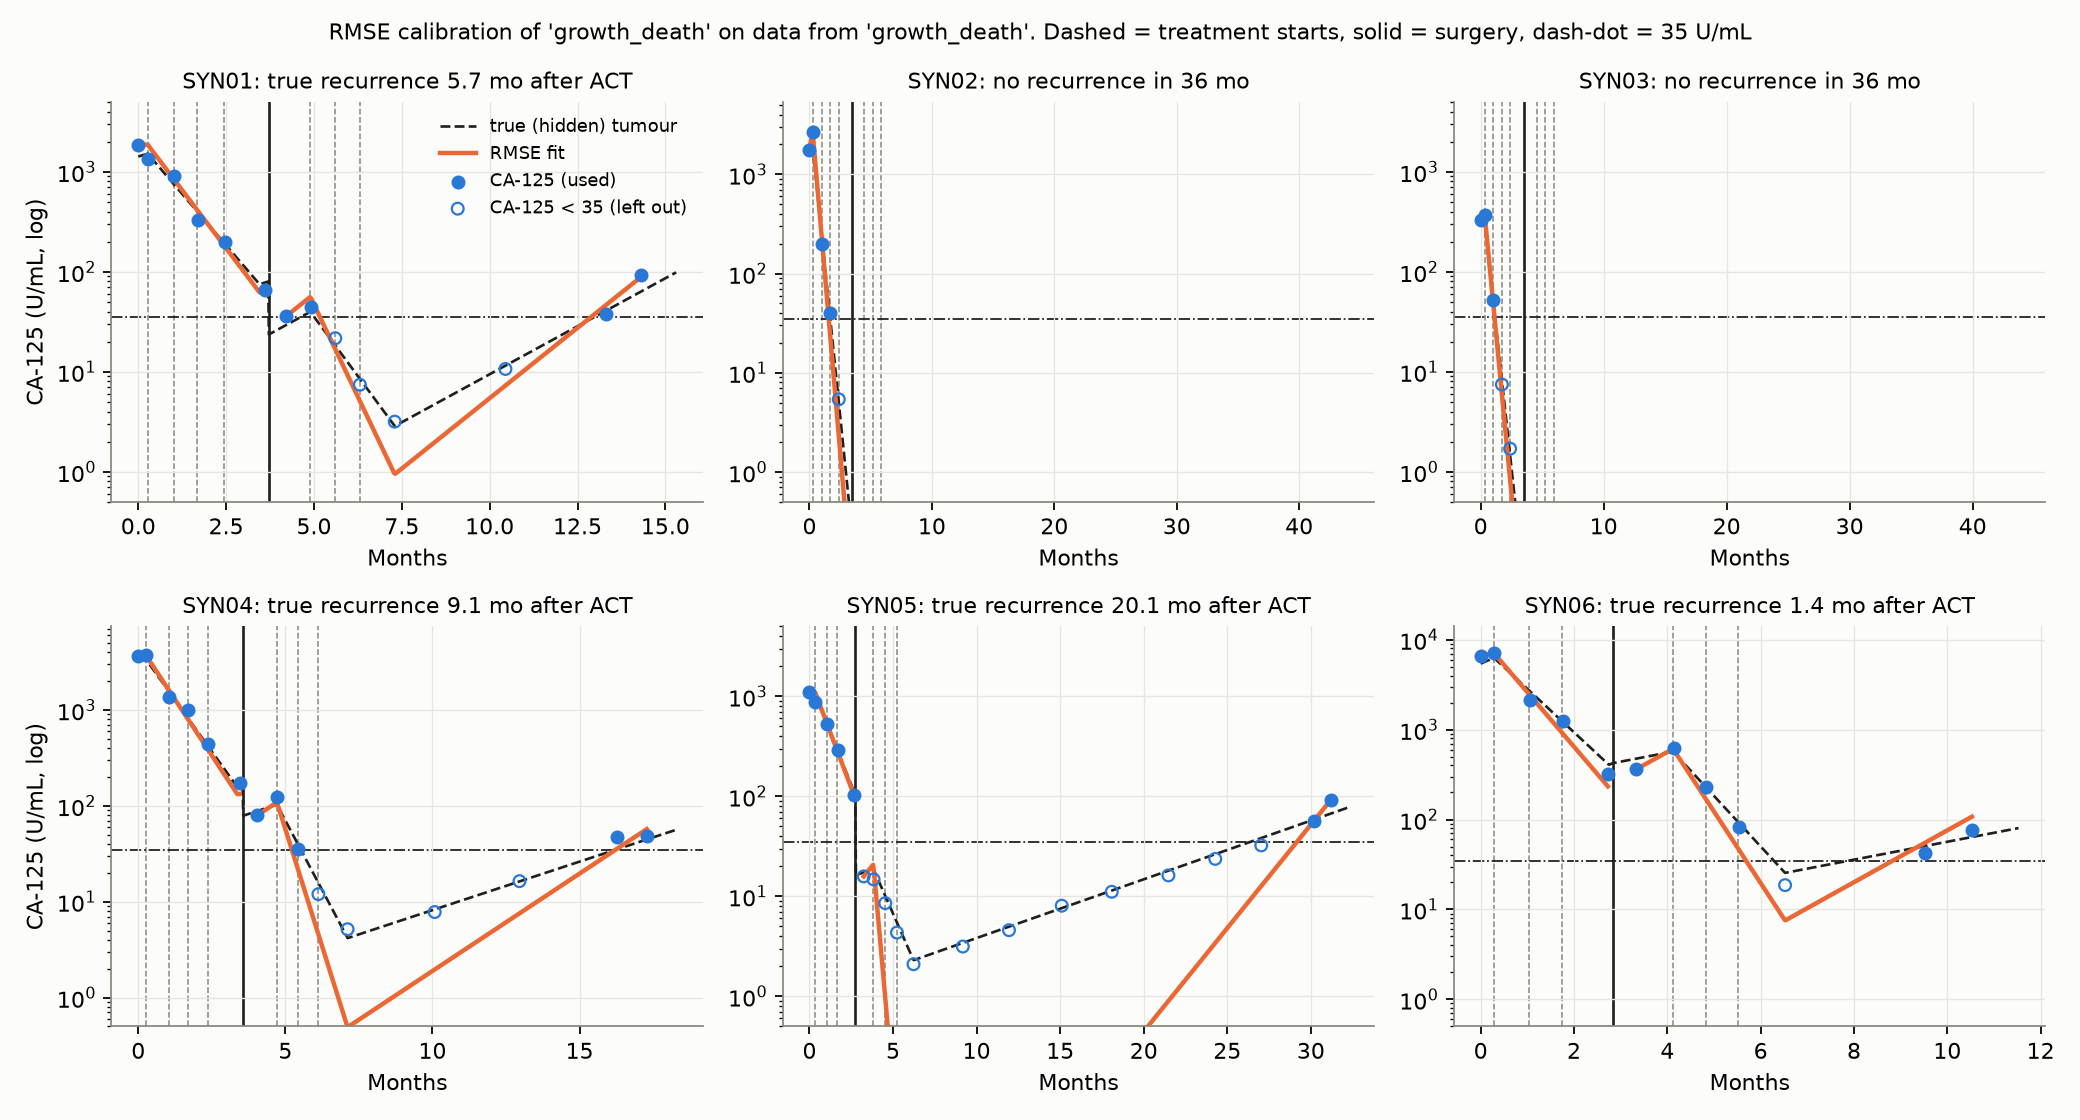
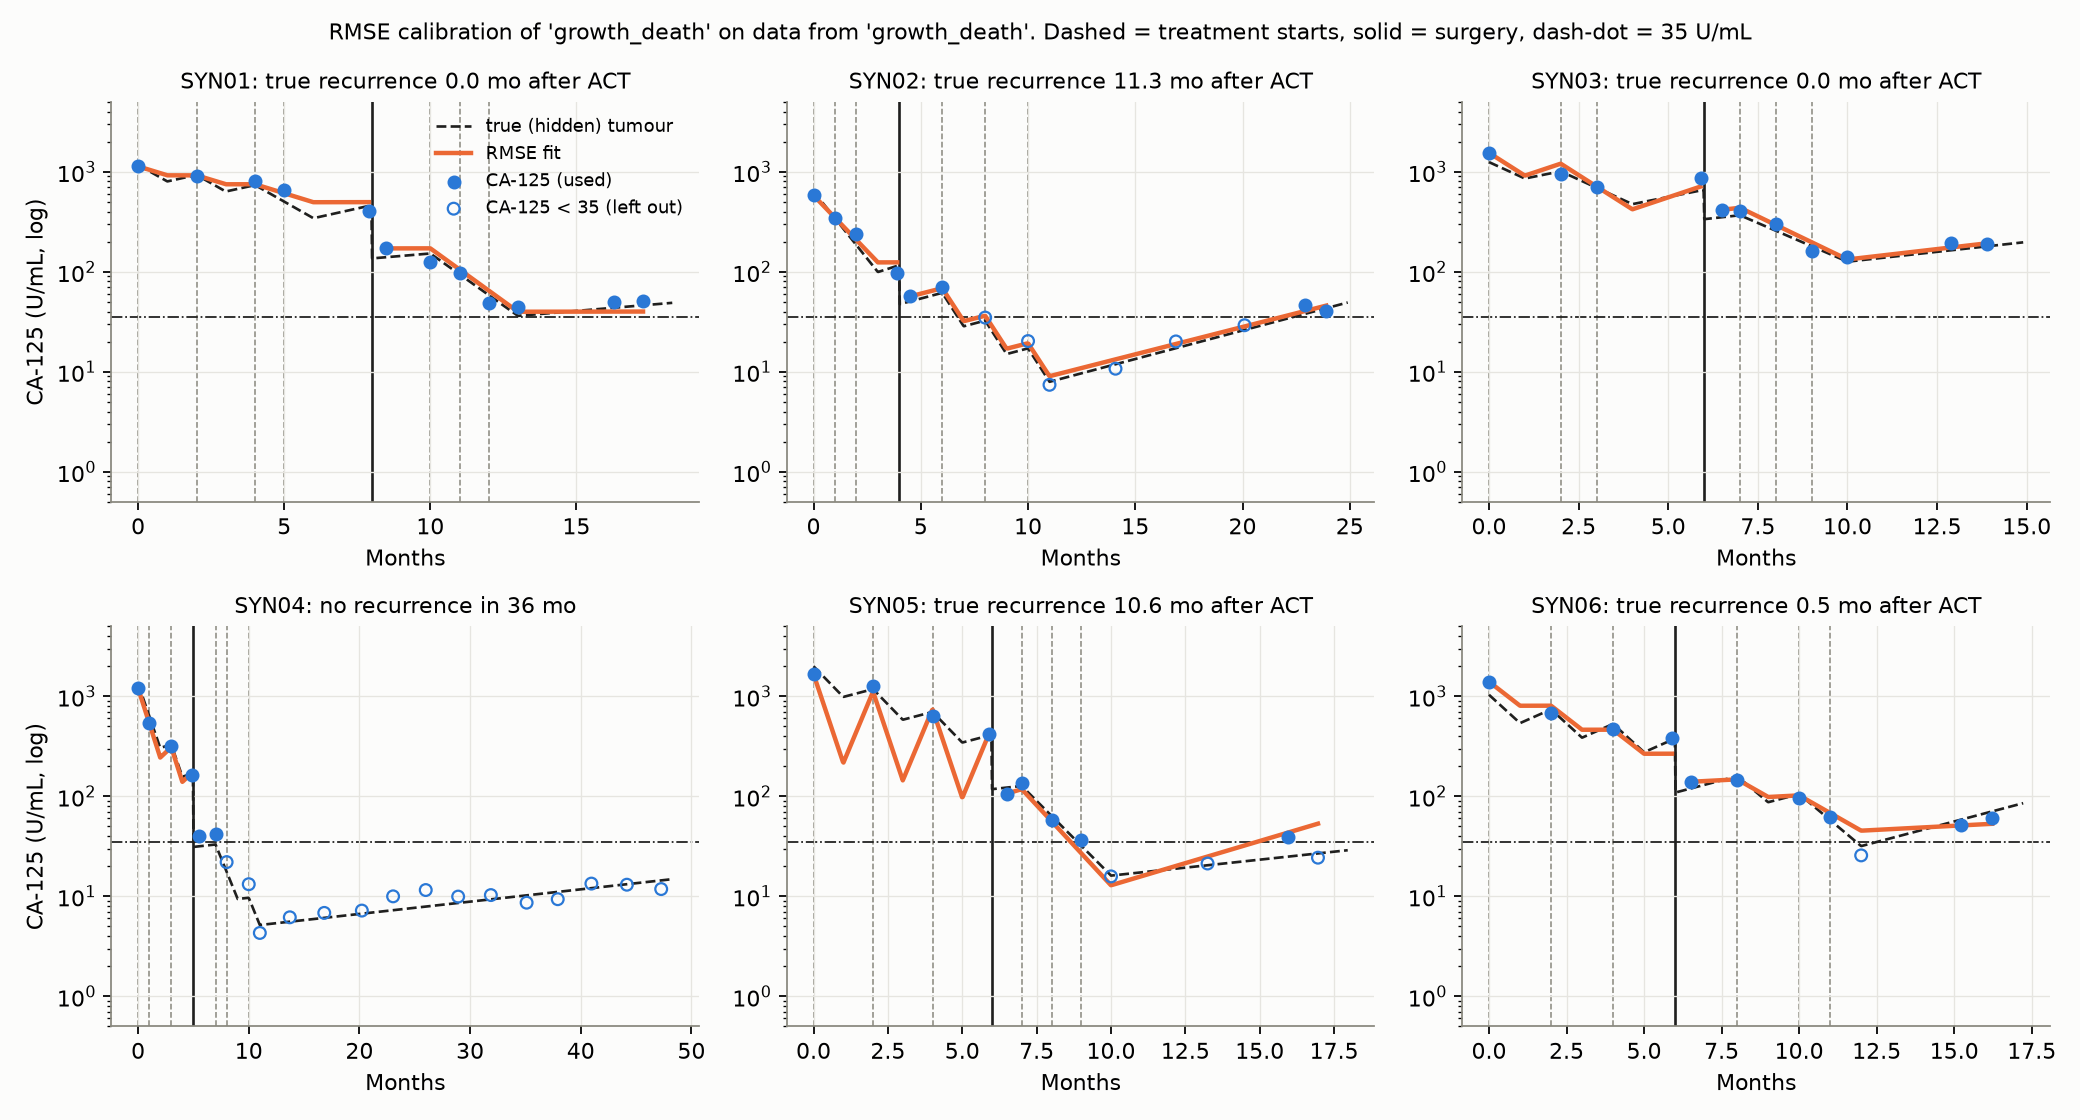
Integer treatment schedule, surgery-jump and nadir gates, treatment file
- Schedule on whole months: each NACT/ACT cycle is on for 1 month, then a 0-1 month gap;
  surgery 1-2 months after the last NACT cycle; first ACT 1-2 months after surgery.
- Gates in sample_parameters: surgery must be a clear jump (after/before CA-125 in
  [0.05, 0.8]) and true CA-125 must stay >= 5 U/mL until the end of ACT; failing draws
  are redrawn.
- Population medians retuned for the new schedule (engineering/tune_population.py, local).
- Generator writes data/synthetic_treatments.csv (cycles and surgery per patient).
- Schedule settings moved to config; tests check both gates.

diff --git a/ovca/generator.py b/ovca/generator.py
@@ -8,8 +8,9 @@ Two steps, usable on their own:
      with assay noise, surveillance and recurrence detection, plus the true recurrence time.
 
 generate_cohort() repeats both for N patients.  Run:  .venv/bin/python -m ovca.generator
-Outputs (data/): synthetic_ca125.csv (what a clinician would see) and synthetic_truth.csv
-(true parameters and recurrence times, for checking only).
+Outputs (data/): synthetic_ca125.csv and synthetic_treatments.csv (what a clinician would see:
+readings, and treatment cycles and surgery) and synthetic_truth.csv (true parameters and
+recurrence times, for checking only).
 """
 from pathlib import Path
 
@@ -23,17 +24,62 @@ from .patient import PatientParameters, Schedule
 DATA = Path(__file__).resolve().parents[1] / "data"
 
 
+def _gap(rng, rng_months):
+    """Whole number of months, uniform on [low, high]."""
+    return float(rng.integers(rng_months[0], rng_months[1] + 1))
+
+
 def sample_schedule(rng):
-    """3-4 NACT cycles ~3 weeks apart -> surgery -> 3 ACT cycles (months)."""
-    n_nact = int(rng.choice([3, 4]))
-    nact = 0.3 + 0.7 * np.arange(n_nact) + rng.uniform(-0.05, 0.05, n_nact)
-    t_surg = nact[-1] + 0.8 + rng.uniform(0.0, 0.5)
-    act = t_surg + 1.0 + rng.uniform(0, 0.3) + 0.7 * np.arange(3)
+    """NACT cycles -> surgery -> ACT cycles, all on whole months (first NACT at month 0).
+
+    Each cycle is on for TREATMENT_DURATION, then a 0-1 month gap (GAP_MONTHS) before the next.
+    Surgery comes SURGERY_GAP months after the last NACT cycle ends; the first ACT cycle starts
+    ACT_START_GAP months after surgery.
+    """
+    d = C.TREATMENT_DURATION
+    nact = [0.0]
+    for _ in range(int(rng.choice(C.N_NACT_CHOICES)) - 1):
+        nact.append(nact[-1] + d + _gap(rng, C.GAP_MONTHS))
+    t_surg = nact[-1] + d + _gap(rng, C.SURGERY_GAP)
+    act = [t_surg + _gap(rng, C.ACT_START_GAP)]
+    for _ in range(C.N_ACT - 1):
+        act.append(act[-1] + d + _gap(rng, C.GAP_MONTHS))
     return Schedule(nact, t_surg, act)
 
 
-def sample_parameters(rng, model: BaseModel, patient_id, population=None):
-    """Draw one patient's parameter set from the population (log-normal around the median)."""
+def nadir(model: BaseModel, p: PatientParameters, step=0.05):
+    """Lowest true CA-125 from t = 0 to the end of ACT."""
+    return float(model.simulate_patient(np.arange(0.0, p.schedule.t_end + step / 2, step), p).min())
+
+
+def surgery_jump(model: BaseModel, p: PatientParameters):
+    """CA-125 just after surgery divided by CA-125 just before (the size of the jump)."""
+    ts = p.schedule.t_surgery
+    before, after = model.simulate_patient([ts - 1e-9, ts], p)
+    return float(after / before)
+
+
+def sample_parameters(rng, model: BaseModel, patient_id, population=None,
+                      nadir_min=C.NADIR_MIN, jump_range=C.SURGERY_JUMP_RANGE):
+    """Draw one patient's parameter set from the population (log-normal around the median).
+
+    Two gates; a draw that fails either is redrawn:
+      - surgery must give a clear jump: after/before CA-125 within jump_range;
+      - true CA-125 must not fall below nadir_min before the end of ACT.
+    Pass None to switch a gate off.
+    """
+    for _ in range(C.MAX_REDRAWS):
+        p = _draw_parameters(rng, model, patient_id, population)
+        if jump_range is not None and not (jump_range[0] <= surgery_jump(model, p)
+                                           <= jump_range[1]):
+            continue
+        if nadir_min is not None and nadir(model, p) < nadir_min:
+            continue
+        return p
+    raise RuntimeError(f"no draw passed the gates in {C.MAX_REDRAWS} tries")
+
+
+def _draw_parameters(rng, model, patient_id, population):
     pop = population or C.POPULATION[model.name]
     sd = np.asarray(pop["sd_log"])
     v = np.exp(rng.multivariate_normal(np.log(pop["median"]), np.outer(sd, sd) * pop["corr"]))
@@ -56,14 +102,27 @@ def recurrence_time(model: BaseModel, p: PatientParameters, cutoff=C.CA125_CUTOF
 
 
 def visit_times(p: PatientParameters, rng):
-    """Clinic visits: baseline, each NACT cycle, just before surgery, ~2 weeks after surgery,
-    each ACT cycle, end of ACT, then surveillance every ~3 months."""
+    """Clinic visits: at the start of each NACT cycle (the first one is the baseline), just
+    before surgery, ~2 weeks after surgery, at the start of each ACT cycle, at the end of ACT,
+    then surveillance every ~3 months."""
     s = p.schedule
     n_surv = int(C.FOLLOWUP_MONTHS // C.SURVEILLANCE_EVERY)
     surv = s.t_end + C.SURVEILLANCE_EVERY * np.arange(1, n_surv + 1) \
         + rng.uniform(-0.3, 0.3, n_surv)
-    return np.concatenate([[0.0], s.nact_starts + 0.01, [s.t_surgery - 0.1],
-                           [s.t_surgery + 0.5], s.act_starts + 0.01, [s.t_end], surv])
+    return np.concatenate([s.nact_starts, [s.t_surgery - 0.1], [s.t_surgery + 0.5],
+                           s.act_starts, [s.t_end], surv])
+
+
+def treatment_table(p: PatientParameters):
+    """One row per treatment event: NACT and ACT cycles (start, end) and surgery."""
+    s = p.schedule
+    rows = [dict(patient=p.patient_id, treatment="NACT", cycle=i + 1, start_month=x,
+                 end_month=x + s.duration) for i, x in enumerate(s.nact_starts)]
+    rows.append(dict(patient=p.patient_id, treatment="surgery", cycle=np.nan,
+                     start_month=s.t_surgery, end_month=s.t_surgery))
+    rows += [dict(patient=p.patient_id, treatment="ACT", cycle=i + 1, start_month=x,
+                  end_month=x + s.duration) for i, x in enumerate(s.act_starts)]
+    return pd.DataFrame(rows)
 
 
 def generate_longitudinal(model: BaseModel, p: PatientParameters, rng,
@@ -99,19 +158,23 @@ def generate_longitudinal(model: BaseModel, p: PatientParameters, rng,
 
 
 def generate_cohort(model: BaseModel, n=C.N_PATIENTS, seed=C.SEED):
+    """Returns (readings, truth, treatments) DataFrames."""
     rng = np.random.default_rng(seed)
-    all_obs, truths = [], []
+    all_obs, truths, treats = [], [], []
     for i in range(n):
         p = sample_parameters(rng, model, f"SYN{i + 1:02d}")
         obs, truth = generate_longitudinal(model, p, rng)
         all_obs.append(obs)
         truths.append(truth)
-    return pd.concat(all_obs, ignore_index=True), pd.DataFrame(truths)
+        treats.append(treatment_table(p))
+    return (pd.concat(all_obs, ignore_index=True), pd.DataFrame(truths),
+            pd.concat(treats, ignore_index=True))
 
 
-def save(obs, truth, folder=DATA):
+def save(obs, truth, treatments, folder=DATA):
     folder.mkdir(exist_ok=True)
     obs[["patient", "month", "phase", "ca125"]].to_csv(folder / "synthetic_ca125.csv", index=False)
+    treatments.to_csv(folder / "synthetic_treatments.csv", index=False)
     obs.to_csv(folder / "synthetic_ca125_with_truth.csv", index=False)
     truth.to_csv(folder / "synthetic_truth.csv", index=False)
 
@@ -130,8 +193,8 @@ def summary(obs, truth):
 
 
 def main(model_name="growth_death", n=C.N_PATIENTS, seed=C.SEED):
-    obs, truth = generate_cohort(get_model(model_name), n, seed)
-    save(obs, truth)
+    obs, truth, treatments = generate_cohort(get_model(model_name), n, seed)
+    save(obs, truth, treatments)
     print(summary(obs, truth))
     return obs, truth
 

diff --git a/ovca/plots.py b/ovca/plots.py
@@ -7,6 +7,7 @@
 from pathlib import Path
 
 import matplotlib
+import matplotlib.ticker
 matplotlib.use("Agg")
 import matplotlib.pyplot as plt  # noqa: E402
 import numpy as np  # noqa: E402
@@ -68,14 +69,15 @@ def fig_explainer(model: BaseModel, obs, truth, pid="SYN12"):
     axD.text(s.act_starts[0], 1.35, f"ACT × {len(s.act_starts)}", va="center", fontsize=9)
     axD.text(s.t_end + 0.3, 0.5, "end of ACT → surveillance every 3 mo,\nD(t) = 0 from here on",
              fontsize=9, va="center", color=MUTED)
-    axD.set_title("① Random schedule: D(t) = 1 for one month after each cycle (dashed lines)",
+    axD.set_title(f"① Random schedule: D(t) = 1 for one month per cycle (dashed lines), then a "
+                  f"{C.GAP_MONTHS[0]}-{C.GAP_MONTHS[1]} month gap",
                   loc="left", fontsize=11)
 
     # 2. hidden tumour with the surgery jump
     axT.semilogy(tt, T, color=INK, lw=1.8)
     _marks(axT, s)
     axT.axhline(C.CA125_CUTOFF, color=MODEL_C, lw=1, ls="-.")
-    axT.text(8, C.CA125_CUTOFF * 1.15, "35 U/mL", color=MODEL_C, fontsize=9)
+    axT.text(0.2, C.CA125_CUTOFF * 1.15, "35 U/mL", color=MODEL_C, fontsize=9)
     T_before = model.simulate_patient([s.t_surgery - 1e-6], p)[0]
     T_after = model.simulate_patient([s.t_surgery], p)[0]
     axT.annotate("", xy=(s.t_surgery + 0.15, T_after), xytext=(s.t_surgery + 0.15, T_before),
@@ -128,8 +130,11 @@ def fig_explainer(model: BaseModel, obs, truth, pid="SYN12"):
     axQ.text(p.q_surgery + 0.02, axQ.get_ylim()[1] * 0.9, pid, color=MODEL_C, fontsize=9)
     axQ.set_xlabel("q = fraction of CA-125 left after surgery")
     axQ.set_ylabel("patients")
-    axQ.set_title(f"Surgery fraction q, all {len(truth)} patients\n"
-                  f"log q ~ Normal(log {C.Q_MEDIAN}, {C.Q_SD_LOG}²), clipped to {list(C.Q_RANGE)}",
+    lo, hi = C.SURGERY_JUMP_RANGE
+    for x in (lo, hi):
+        axQ.axvline(x, color=INK, lw=0.8, ls="--")
+    axQ.set_title(f"Surgery jump q, all {len(truth)} patients\n"
+                  f"log q ~ Normal(log {C.Q_MEDIAN}, {C.Q_SD_LOG}²); gate keeps {lo} ≤ q ≤ {hi}",
                   loc="left", fontsize=10)
 
     k = model.param_names[0]
@@ -138,6 +143,10 @@ def fig_explainer(model: BaseModel, obs, truth, pid="SYN12"):
     axG.scatter([p.theta_pre[k]], [p.theta_post[k]], s=60, color=MODEL_C, zorder=5)
     axG.set_xscale("log")
     axG.set_yscale("log")
+    for a in (axG.xaxis, axG.yaxis):
+        a.set_major_locator(matplotlib.ticker.LogLocator(subs=(1, 2, 5)))
+        a.set_major_formatter(matplotlib.ticker.FormatStrFormatter("%g"))
+        a.set_minor_formatter(matplotlib.ticker.NullFormatter())
     axG.set_xlabel(f"{k} before surgery (/month)")
     axG.set_ylabel(f"{k} after surgery (/month)")
     axG.set_title("Parameters are drawn jointly\n(log-normal, pre and post correlated)",

diff --git a/ovca/config.py b/ovca/config.py
@@ -8,6 +8,15 @@ CA125_CUTOFF = 35.0          # readings below this count as 0 and are left out o
 TREATMENT_DURATION = 1.0     # D(t) = 1 for one month after each treatment start
 DAYS_PER_MONTH = 30
 
+# --- Treatment schedule (months) ---
+# Each cycle is on for TREATMENT_DURATION; after it ends there is a gap of a whole number of
+# months drawn uniformly from GAP_MONTHS before the next event.
+N_NACT_CHOICES = (3, 4)      # number of NACT cycles (equally likely)
+N_ACT = 3                    # number of ACT cycles
+GAP_MONTHS = (0, 1)          # gap between the end of one cycle and the start of the next (0 = back to back)
+SURGERY_GAP = (1, 2)         # end of the last NACT cycle -> surgery
+ACT_START_GAP = (1, 2)       # surgery -> first ACT cycle
+
 # --- Synthetic cohort ---
 N_PATIENTS = 60
 NOISE_SD_LOG = 0.15          # multiplicative assay noise: y = T * exp(N(0, 0.15^2)), about 15%
@@ -16,12 +25,15 @@ SURVEILLANCE_EVERY = 3.0     # a CA-125 reading every ~3 months during surveilla
 GRID_STEP = 0.01             # months, for finding when the true curve crosses the cutoff
 
 # Population of patient parameters, per model. Each value is log-normal around the median
-# ("typical patient", chosen to look like the poster fits); `corr` is on the log scale.
+# ("typical patient"); `corr` is on the log scale. Tuned with engineering/tune_population.py so
+# that, after the NADIR_MIN redraw, the nadir median is ~12 U/mL and about 20% / 33% recur
+# within 6 / 12 months of the end of ACT. About 60% of raw draws are redrawn by NADIR_MIN, so
+# the final cohort is shifted to slower kill than these medians.
 POPULATION = {
     "growth_death": dict(
         names=["gamma_pre", "delta_pre", "gamma_post", "delta_post"],
-        median=[0.20, 1.40, 0.18, 1.10],
-        sd_log=[0.70, 0.40, 0.50, 0.40],
+        median=[0.10, 0.95, 0.04, 0.70],
+        sd_log=[0.50, 0.25, 0.55, 0.25],
         corr=np.array([
             [1.0, 0.0, 0.6, 0.0],
             [0.0, 1.0, 0.0, 0.6],
@@ -30,6 +42,10 @@ POPULATION = {
         ]),
     ),
 }
-CA125_0_MEDIAN, CA125_0_SD_LOG = 800.0, 0.9   # baseline CA-125 (U/mL)
+CA125_0_MEDIAN, CA125_0_SD_LOG = 800.0, 0.6   # baseline CA-125 (U/mL)
 Q_MEDIAN, Q_SD_LOG = 0.35, 0.6                # fraction of tumour left by surgery
 Q_RANGE = (0.02, 1.0)
+SURGERY_JUMP_RANGE = (0.05, 0.8)   # gate: CA-125 just after / just before surgery must be in
+                                   # this range (a clear drop, but not near-total), else redraw
+NADIR_MIN = 5.0              # redraw a patient whose true CA-125 falls below this (U/mL) by end of ACT
+MAX_REDRAWS = 1000

diff --git a/run_pipeline.py b/run_pipeline.py
@@ -21,8 +21,8 @@ if __name__ == "__main__":
     gen, fit = get_model(a.gen_model), get_model(a.fit_model)
 
     print(f"== 1. generate synthetic cohort ({gen.name})")
-    obs, truth = generator.generate_cohort(gen, a.n, a.seed)
-    generator.save(obs, truth)
+    obs, truth, treatments = generator.generate_cohort(gen, a.n, a.seed)
+    generator.save(obs, truth, treatments)
     print(generator.summary(obs, truth))
 
     print(f"\n== 2. RMSE calibration ({fit.name})")

diff --git a/ovca/patient.py b/ovca/patient.py
@@ -81,7 +81,7 @@ class PatientParameters:
     """Everything needed to simulate one patient with a given model.
 
     theta_pre / theta_post: the model's parameters before and after surgery, e.g.
-    {"gamma": 0.2, "delta": 1.4}. ca125_0: CA-125 at t = 0. q_surgery: surgery multiplies the
+    {"gamma": 0.2, "delta": 1.4}. ca125_0: CA-125 at t = 0. q_surgery: surgery (a jump) multiplies the
     tumour state by q (fraction left).
     """
     patient_id: str

diff --git a/tests/test_ovca.py b/tests/test_ovca.py
@@ -30,6 +30,9 @@ def test_surgery_jump():
     ts = p.schedule.t_surgery
     before, after = m.simulate_patient([ts - 1e-9, ts], p)
     assert np.isclose(after / before, p.q_surgery, rtol=1e-6)
+    lo, hi = generator.C.SURGERY_JUMP_RANGE
+    assert lo <= generator.surgery_jump(m, p) <= hi          # the gate holds
+    assert generator.nadir(m, p) >= generator.C.NADIR_MIN
 
 
 def test_recurrence_time_without_treatment():

diff --git a/README.md b/README.md
@@ -27,9 +27,13 @@ uv venv .venv && uv pip install --python .venv/bin/python -r requirements.txt
 ## Pipeline
 
 1. **Parameter set** (`generator.sample_parameters`): γ, δ before and after surgery are log-normal
-   around a typical patient (medians 0.20, 1.40, 0.18, 1.10 /month; pre and post correlated 0.6),
-   plus baseline CA-125, surgery fraction q and a random schedule. A `PatientParameters` can also
-   be written by hand.
+   around a typical patient (pre and post correlated 0.6), plus baseline CA-125, surgery fraction q
+   and a random schedule. A `PatientParameters` can also be written by hand.
+   - **Schedule** (whole months): 3–4 NACT cycles from month 0, each on for 1 month then a
+     0–1 month gap; surgery 1–2 months after the last NACT cycle ends; first ACT 1–2 months
+     after surgery; 3 ACT cycles with the same 0–1 month gaps.
+   - **Gates** (a failing draw is redrawn): surgery must be a clear jump, CA-125 after/before in
+     [0.05, 0.8]; true CA-125 must stay ≥ 5 U/mL until the end of ACT.
 2. **Longitudinal data** (`generator.generate_longitudinal`): the model is simulated before
    surgery, the state is multiplied by q at surgery, then simulated after surgery with the
    post-surgery parameters. CA-125 is read at each visit with 15% multiplicative noise; the first
@@ -37,7 +41,8 @@ uv venv .venv && uv pip install --python .venv/bin/python -r requirements.txt
 3. **Calibration** (`calibration.calibrate_cohort`): least squares on RMSE, as in the poster code:
    T0 of each segment = its first reading; readings below 35 count as 0 and are left out of the RMSE.
 
-Outputs: `data/synthetic_ca125.csv` (readings), `data/synthetic_truth.csv` (true parameters and
+Outputs: `data/synthetic_ca125.csv` (readings), `data/synthetic_treatments.csv` (NACT/ACT
+cycles with start and end month, and surgery), `data/synthetic_truth.csv` (true parameters and
 recurrence times), `results/calibration.csv`, `figures/0–2_*.png`.
 
 ## Adding a model
